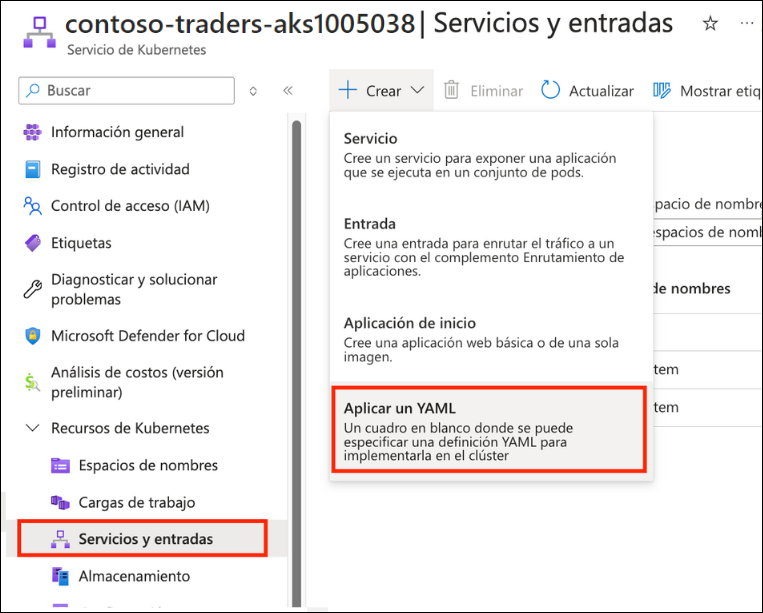
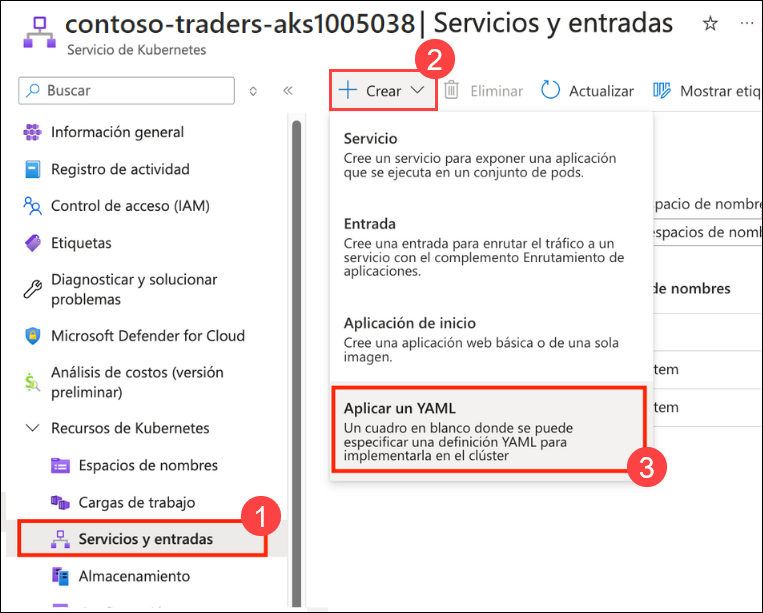
updated

Changed region(s): [[0.422, 0.062, 0.6029, 0.186], [0.8139, 0.7129, 0.8742, 0.8059], [0.3014, 0.8059, 0.3919, 0.8989]]

diff --git a/labguide/05-Updating-Apps&Managing-Load-Balancing.md b/labguide/05-Updating-Apps&Managing-Load-Balancing.md
@@ -123,7 +123,7 @@ Esta tarea configurará un Kubernetes Ingress utilizando un [servidor proxy Ngin
     helm repo add ingress-nginx https://kubernetes.github.io/ingress-nginx
     ```
 
-2. Actualice su lista de paquetes de helm.
+1. Actualice su lista de paquetes de helm.
 
    ```bash
    helm repo update
@@ -135,13 +135,13 @@ Esta tarea configurará un Kubernetes Ingress utilizando un [servidor proxy Ngin
    > helm repo add stable https://charts.helm.sh/stable 
    > ```
 
-3. Instale el recurso de Controlador Ingress para manejar las solicitudes de ingreso a medida que llegan. El Controlador Ingress recibirá una dirección IP pública propia en Azure Load Balancer y manejará las solicitudes para múltiples servicios a través de los puertos 80 y 443.
+1. Instale el recurso de Controlador Ingress para manejar las solicitudes de ingreso a medida que llegan. El Controlador Ingress recibirá una dirección IP pública propia en Azure Load Balancer y manejará las solicitudes para múltiples servicios a través de los puertos 80 y 443.
 
    ```bash
    helm install nginx-ingress ingress-nginx/ingress-nginx --namespace contoso-traders --set controller.replicaCount=1 --set controller.nodeSelector."beta\.kubernetes\.io/os"=linux --set defaultBackend.nodeSelector."beta\.kubernetes\.io/os"=linux --set controller.admissionWebhooks.patch.nodeSelector."beta\.kubernetes\.io/os"=linux --set controller.service.externalTrafficPolicy=Local
    ```
 
-4. Navegue al Portal de Azure, abra el servicio de Kubernetes **contoso-traders-aks<inject key="DeploymentID" enableCopy="false"/>**. Seleccione **Services and ingresses** en los recursos de Kubernetes y copie la Dirección IP en **External IP** para el servicio `nginx-ingress-RANDOM-nginx-ingress`.
+1. Navegue al Portal de Azure, abra el servicio de Kubernetes **contoso-traders-aks<inject key="DeploymentID" enableCopy="false"/>**. Seleccione **Services and ingresses** en los recursos de Kubernetes y copie la Dirección IP en **External IP** para el servicio `nginx-ingress-ingress-nginx-controller`.
 
     > **Nota**: La actualización podría tardar unos minutos; alternativamente, puede encontrar la IP usando el siguiente comando en Azure Cloud Shell.
     >
@@ -151,7 +151,9 @@ Esta tarea configurará un Kubernetes Ingress utilizando un [servidor proxy Ngin
     >
    ![Una captura de pantalla de Azure Cloud Shell que muestra el resultado del comando.](media/controller.png "Viendo la dirección IP del Controlador de Ingress")
 
-5. Dentro de la terminal de comandos de Windows, cree un script para actualizar el nombre DNS público para la IP externa de ingress.
+1. 1. En **Azure Portal**, busque y abra **Microsoft Entra ID** y copie **Tenant ID**.
+
+1. Dentro de la terminal de comandos de Windows, cree un script para actualizar el nombre DNS público para la IP externa de ingress.
 
    ```bash
    code update-ip.ps1
@@ -163,39 +165,40 @@ Esta tarea configurará un Kubernetes Ingress utilizando un [servidor proxy Ngin
    - `[KUBERNETES_NODE_RG]`: Reemplace `SUFFIX` con este valor: **<inject key="DeploymentID" />**.
    - `[DNSNAME]`: Reemplace esto con el mismo valor SUFFIX **<inject key="DeploymentID" />** que utilizó anteriormente para esta práctica de laboratorio.
    - `[PUBLICIP]`: Reemplace `SUFFIX` con este valor: **<inject key="DeploymentID" />**.
+   - `$env:tenantId`: Ingrese la identificación del inquilino que copió en el paso anterior. 
 
-   ```bash
-   # Create a SecureString from the client's secret
-   $securePassword = ConvertTo-SecureString $env:AppSecret -AsPlainText -Force
-   
-   # Create a PSCredential object using the client ID and secure password
-   $credential = New-Object System.Management.Automation.PSCredential($env:AppID, $securePassword)
-   
-   # Authenticate using the PSCredential object
-   Connect-AzAccount -ServicePrincipal -Credential $credential -TenantId $env:tenantId
+      ```bash
+      # Create a SecureString from the client's secret
+      $securePassword = ConvertTo-SecureString $env:AppSecret -AsPlainText -Force
+      
+      # Create a PSCredential object using the client ID and secure password
+      $credential = New-Object System.Management.Automation.PSCredential($env:AppID, $securePassword)
+      
+      # Authenticate using the PSCredential object
+      Connect-AzAccount -ServicePrincipal -Credential $credential -TenantId $env:tenantId
 
-   $ipaddress="INGRESS PUBLIC IP"
+      $ipaddress="INGRESS PUBLIC IP"
 
-   $KUBERNETES_NODE_RG="contoso-traders-aks-nodes-rg-SUFFIX"
+      $KUBERNETES_NODE_RG="contoso-traders-aks-nodes-rg-SUFFIX"
 
-   $DNSNAME="contosotraders-SUFFIX-ingress"
+      $DNSNAME="contosotraders-SUFFIX-ingress"
 
-   $PUBLICIP=Get-AzPublicIPAddress -ResourceGroupName contoso-traders-aks-nodes-rg-SUFFIX
+      $PUBLICIP=Get-AzPublicIPAddress -ResourceGroupName contoso-traders-aks-nodes-rg-SUFFIX
 
-   $results = @()
+      $results = @()
 
-   ForEach ($i in $PUBLICIP)
-   {
-   If($i.IpAddress -eq $ipaddress){
-   $PIPNAME=$i.name
-   $i.DnsSettings = @{"DomainNameLabel" = $DNSNAME} 
-   Set-AzPublicIpAddress -PublicIpAddress $i
-   }
-   }
-   ```
-6. Guarde los cambios y cierre el editor.
+      ForEach ($i in $PUBLICIP)
+      {
+      If($i.IpAddress -eq $ipaddress){
+      $PIPNAME=$i.name
+      $i.DnsSettings = @{"DomainNameLabel" = $DNSNAME} 
+      Set-AzPublicIpAddress -PublicIpAddress $i
+      }
+      }
+      ```
+1. Guarde los cambios y cierre el editor.
 
-7. Ejecute el script de actualización.
+1. Ejecute el script de actualización.
 
    ```bash
    powershell ./update-ip.ps1
@@ -205,7 +208,7 @@ Esta tarea configurará un Kubernetes Ingress utilizando un [servidor proxy Ngin
 
    >**Nota:** Si encuentra algún error, ignórelo y continúe con el siguiente paso.
 
-8. Verifique la actualización de IP visitando la URL en su navegador.
+1. Verifique la actualización de IP visitando la URL en su navegador.
 
     > **Nota**: Es normal recibir un mensaje 404 en este momento.
 
@@ -220,18 +223,18 @@ Esta tarea configurará un Kubernetes Ingress utilizando un [servidor proxy Ngin
    helm upgrade nginx-ingress ingress-nginx/ingress-nginx --namespace contoso-traders --set controller.service.externalTrafficPolicy=Local
    ```
 
-9. Utilice helm para instalar `cert-manager`, una herramienta que puede proporcionar certificados SSL automáticamente desde letsencrypt.org.
+1. Utilice helm para instalar `cert-manager`, una herramienta que puede proporcionar certificados SSL automáticamente desde letsencrypt.org.
 
     ```bash
     kubectl apply --validate=false -f https://github.com/cert-manager/cert-manager/releases/download/v1.9.1/cert-manager.yaml
     ```
 
-10. Para crear un recurso `ClusterIssuer` personalizado para que el servicio `cert-manager` lo utilice al manejar solicitudes de certificados SSL, ejecute el siguiente comando en el Símbolo del sistema de Windows.
+1. Para crear un recurso `ClusterIssuer` personalizado para que el servicio `cert-manager` lo utilice al manejar solicitudes de certificados SSL, ejecute el siguiente comando en el Símbolo del sistema de Windows.
 
     ```bash 
     code clusterissuer.yml
     ```
-11. Dentro del archivo **clusterissuer.yml** copie y pegue el siguiente contenido:
+1. Dentro del archivo **clusterissuer.yml** copie y pegue el siguiente contenido:
 
     ```yaml
     apiVersion: cert-manager.io/v1
@@ -255,15 +258,15 @@ Esta tarea configurará un Kubernetes Ingress utilizando un [servidor proxy Ngin
               class: nginx
     ```
 
-12. Guarde los cambios y cierre el editor.
+1. Guarde los cambios y cierre el editor.
 
-13. Cree el emisor usando `kubectl`.
+1. Cree el emisor usando `kubectl`.
 
     ```bash
     kubectl create --save-config=true -f clusterissuer.yml
     ```
 
-14. Ahora puede crear un objeto de certificado.
+1. Ahora puede crear un objeto de certificado.
 
     > **Nota**:
     > Es posible que Cert-manager ya haya creado un objeto de certificado para usted usando ingress-shim.
@@ -276,7 +279,7 @@ Esta tarea configurará un Kubernetes Ingress utilizando un [servidor proxy Ngin
     code certificate.yml
     ```
 
-15. Dentro del archivo **certificate.yml** copie y pegue el siguiente contenido:
+1. Dentro del archivo **certificate.yml** copie y pegue el siguiente contenido:
 
      ```yaml
      apiVersion: cert-manager.io/v1
@@ -292,11 +295,11 @@ Esta tarea configurará un Kubernetes Ingress utilizando un [servidor proxy Ngin
          name: letsencrypt-prod
          kind: ClusterIssuer
      ```
-16. Actualice el valor `[SUFFIX]` con **<inject key="DeploymentID" />** y `[AZURE-REGION]` con **<inject key="Region" />** para que coincida con su nombre DNS de Ingress.
+1. Actualice el valor `[SUFFIX]` con **<inject key="DeploymentID" />** y `[AZURE-REGION]` con **<inject key="Region" />** para que coincida con su nombre DNS de Ingress.
 
-14. Guarde los cambios y cierre el editor.
+1. Guarde los cambios y cierre el editor.
 
-15. Cree el certificado usando `kubectl`.
+1. Cree el certificado usando `kubectl`.
 
     ```bash
     kubectl create --save-config=true -f certificate.yml
@@ -316,13 +319,13 @@ Esta tarea configurará un Kubernetes Ingress utilizando un [servidor proxy Ngin
 
     Pueden pasar entre 5 y 30 minutos antes de que tls-secret esté disponible. Esto se debe al retraso que implica el aprovisionamiento de un certificado TLS de Let's Encrypt.
 
-16. Ahora puede crear un recurso de Ingress para las aplicaciones de contenido.
+1. Ahora puede crear un recurso de Ingress para las aplicaciones de contenido.
 
     ```bash
     code content.ingress.yml
     ```
 
-17. Dentro del archivo **content.ingress.yml** copie y pegue el siguiente contenido:
+1. Dentro del archivo **content.ingress.yml** copie y pegue el siguiente contenido:
 
     ```yaml
     apiVersion: networking.k8s.io/v1
@@ -361,25 +364,25 @@ Esta tarea configurará un Kubernetes Ingress utilizando un [servidor proxy Ngin
                    number: 3001
     ```
 
-18. Actualice el valor `[SUFFIX]`: **<inject key="DeploymentID" />** y `[AZURE-REGION]`: **<inject key="Region" />** para que coincidan con su nombre DNS de Ingress.
+1. Actualice el valor `[SUFFIX]`: **<inject key="DeploymentID" />** y `[AZURE-REGION]`: **<inject key="Region" />** para que coincidan con su nombre DNS de Ingress.
 
-19. Guarde los cambios y cierre el editor.
+1. Guarde los cambios y cierre el editor.
 
-20. Cree el ingress usando `kubectl`.
+1. Cree el ingress usando `kubectl`.
 
     ```bash
     kubectl create --save-config=true -f content.ingress.yml
     ```
 
-21. Actualice el punto de conexión de Ingress en su navegador. Debería poder visitar el sitio web y ver todo el contenido.
+1. Actualice el punto de conexión de Ingress en su navegador. Debería poder visitar el sitio web y ver todo el contenido.
 
     ![](media/16.png )
    
-22. Pruebe la terminación TLS visitando los servicios nuevamente usando `https://`.
+1. Pruebe la terminación TLS visitando los servicios nuevamente usando `https://`.
 
     > **Nota**: El sitio SSL puede tardar entre 5 y 30 minutos en estar disponible. Esto se debe al retraso que implica el aprovisionamiento de un certificado TLS de Let's Encrypt.
 
-23. Haga clic en el botón **Siguiente** ubicado en la esquina inferior derecha de esta guía de laboratorio para continuar con el siguiente ejercicio.
+1. Haga clic en el botón **Siguiente** ubicado en la esquina inferior derecha de esta guía de laboratorio para continuar con el siguiente ejercicio.
 
 ## Resumen
 

diff --git a/labguide/04-Scale-the-application-and-Validate-HA.md b/labguide/04-Scale-the-application-and-Validate-HA.md
@@ -67,7 +67,7 @@ En esta tarea, resolverá las réplicas de API que han fallado. Estas fallas se 
 
 1. Seleccione **Revisar + guardar** y, cuando se le solicite Confirmar cambio de manifiesto, marque **Confirmar cambio de manifiesto** y seleccione **Guardar**.
 
-1. Regrese a la vista principal **Cargas de trabajo** del servicio de Kubernetes **contoso-traders-aks<inject key="DeploymentID" enableCopy="false" />**, refresque la página y ahora verá que la implementación está sana con **dos** Pods en funcionamiento.
+1. Regrese a la vista principal **Cargas de trabajo (1)** del servicio de Kubernetes **contoso-traders-aks<inject key="DeploymentID" enableCopy="false" />**, refresque la página y ahora verá que la implementación está sana con **dos (2)** Pods en funcionamiento.
 
    ![Despliegue del API en estado sano.](media/2.png "Despliegue del API en estado sano.")       
 
@@ -111,13 +111,13 @@ En esta tarea, habilitará el autoescalador del clúster para el clúster de AKS
     az aks get-credentials --resource-group ContosoTraders-<inject key="DeploymentID" enableCopy="true"/> --name contoso-traders-aks<inject key="DeploymentID" enableCopy="true"/>
     ```
     
-1.  Verifique el `recuento` de grupos de nodos en el clúster y asegúrese de que `enableblingAutoScaling` sea `null`. Proporcione el siguiente comando y ejecútelo.   
+1.  Verifique el `recuento` de grupos de nodos en el clúster y asegúrese de que `enableblingAutoScaling` sea `false`. Proporcione el siguiente comando y ejecútelo.   
     
      ```
      az aks nodepool list --resource-group ContosoTraders-<inject key="DeploymentID" enableCopy="true"/> --cluster-name contoso-traders-aks<inject key="DeploymentID" enableCopy="true"/>
      ```   
     
-    ![](media/ex4-t3-scaling1.png)
+    ![](media/countenableautoscailing.png)
 
 1. Ejecute el siguiente comando para habilitar el autoescalado del clúster en el clúster existente. Verifique que `enablementAutoScaling` sea `true`. Proporcione el siguiente comando y ejecútelo.
 

diff --git a/labguide/migrate-mondodb-to-cosmosdb-using-dbmigration.md b/labguide/migrate-mondodb-to-cosmosdb-using-dbmigration.md
@@ -19,7 +19,7 @@ En esta tarea, se conectará a una base de datos Mongo alojada en una Máquina V
    >**Nota:** Si se encuentra con un problema al conectarse a la base de datos de origen tal como error: conexión denegada, ejecute el comando **<inject key="Command to Connect to Build Agent VM" enableCopy="true" />** e ingrese el comando de la MV **<inject key="Build Agent VM Password" enableCopy="true" />** para conectarse a la MV de Linux usando ssh. Por favor ejecute los siguientes comandos y vuelva a realizar el paso 1 de la tarea. 
 
    ```
-   
+   sudo apt install mongodb-server
    cd /etc
    sudo sed -i 's/bind_ip = 127.0.0.1/bind_ip = 0.0.0.0/g' /etc/mongod.conf
    sudo sed -i 's/#port = 27017/port = 27017/g' /etc/mongod.conf
@@ -45,11 +45,11 @@ En esta tarea, se conectará a una base de datos Mongo alojada en una Máquina V
 
    - Por favor ejecute los comandos que se mencionan a continuación en el símbolo del sistema y realice los pasos 1 y 2 nuevamente.
 
-   ```
-   cd ~/Cloud-Native-Application/labfiles/src/developer/content-init
-   sudo npm ci
-   nodejs server.js
-   ```     
+      ```
+      cd ~/Cloud-Native-Application/labfiles/src/developer/content-init
+      sudo npm ci
+      nodejs server.js
+      ```     
 
 ### Tarea 2: Crear un Proyecto de Migración y migrar datos a Azure CosmosDB
 

diff --git a/labguide/Deploy theApplication-to-Azure-Kubernetes-Service.md b/labguide/Deploy theApplication-to-Azure-Kubernetes-Service.md
@@ -107,7 +107,7 @@ En esta tarea, implementará la aplicación API Carts en el clúster de Azure Ku
 
     ![Esta es una captura de pantalla del Portal de Azure mostrando cómo acceder a los espacios de nombres en AKS.](media/newnamespaces.png "Espacios de nombres en AKS")
     
-2. Defina un Servicio para su API, de modo que se pueda acceder a la aplicación dentro del clúster Seleccione la hoja **Servicios y entradas** de la página de detalles del recurso AKS **contoso-traders-aks<inject key="DeploymentID" enableCopy="false"/>** en el Portal de Azure. En la pestaña Servicios, seleccione **+ Crear** y elija **Aplicar un YAML**. 
+2. Defina un Servicio para su API, de modo que se pueda acceder a la aplicación dentro del clúster Seleccione la hoja **Servicios y entradas (1)** de la página de detalles del recurso AKS **contoso-traders-aks<inject key="DeploymentID" enableCopy="false"/>** en el Portal de Azure. En la pestaña Servicios, seleccione **+ Crear (2)** y elija **Aplicar un YAML (3)**. 
     
     ![Esta es una captura de pantalla del Portal de Azure para AKS que muestra cómo agregar un servicio.](media/CNV2-E3-T3-S3new.png "Agregando un Servicio")
 
